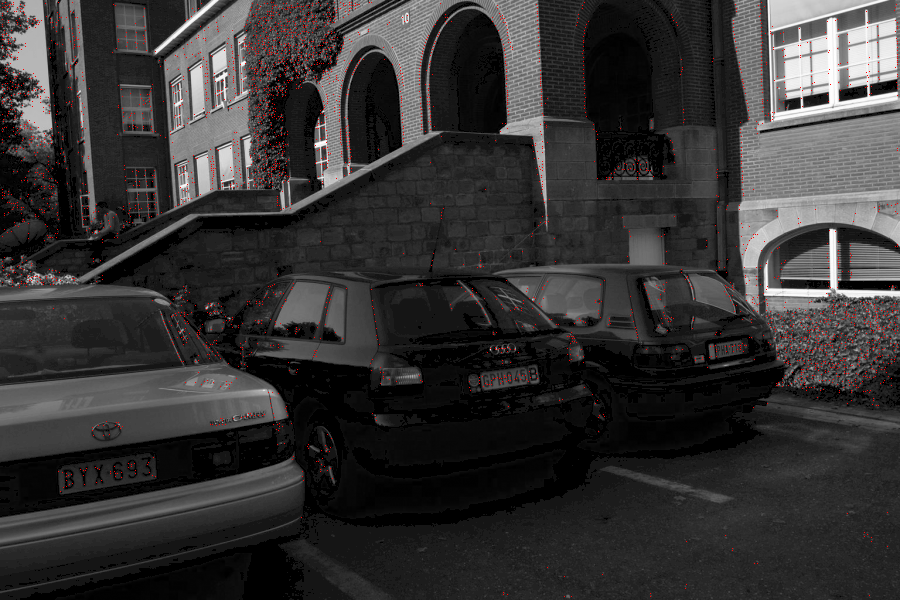
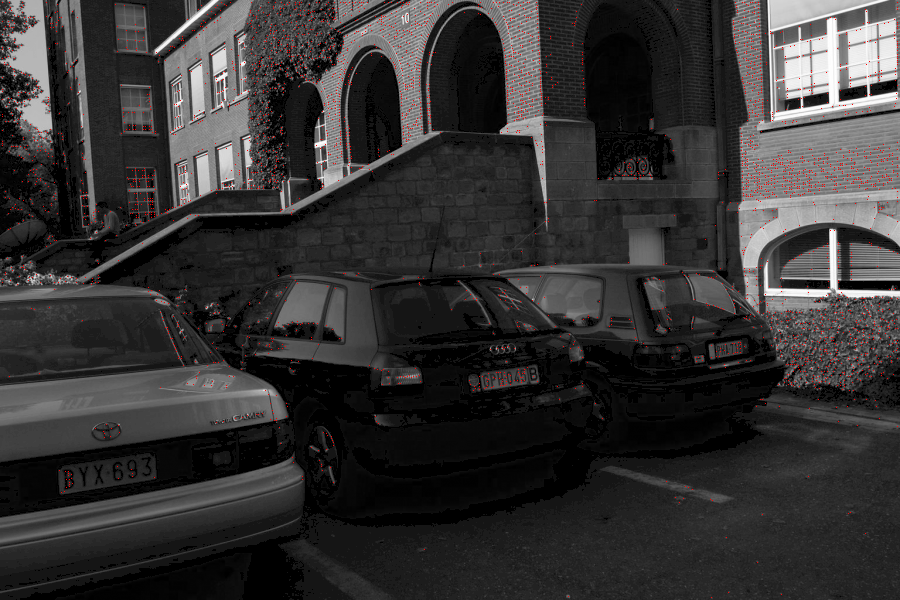
Corrected Ixy = Iy*Iy to Ixy = Ix*Iy

Changed region(s): [[0.3111, 0.09, 0.3422, 0.12], [0.3111, 0.03, 0.3422, 0.06], [0.28, 0.06, 0.3111, 0.09]]

diff --git a/match.py b/match.py
@@ -13,7 +13,7 @@ import math
 k = 0.04
 window_size = 5
 offset = window_size/2
-threshold = 100000
+threshold = 1000000
 filename = ""
 
 if len(sys.argv) == 2:
@@ -27,7 +27,7 @@ def harris_corners(img, filename):
 	# Gradients in y and x direction, [columns reprsent the x and rows represent the y]
 	Iy, Ix = np.gradient(np.array(img, dtype=np.float))
 	Ixx = Ix*Ix
-	Ixy = Iy*Iy
+	Ixy = Ix*Iy
 	Iyy = Iy*Iy
 	height = img.shape[0]
 	width = img.shape[1]
@@ -93,6 +93,8 @@ file2 = "img/set" + test_set + "/img2.png"
 print "Loading : [", file2, "]"
 img2 = Image.open(file2).convert('L')
 img2 = np.array(img2)
+if test_set == '3':
+	threshold = threshold/100
 print "Finding Harris Corners ... "
 harris_image2, corners2 = harris_corners(img2, file2)
 cv2.imwrite("img/set" + test_set + "/img2_corners.png", harris_image2)
